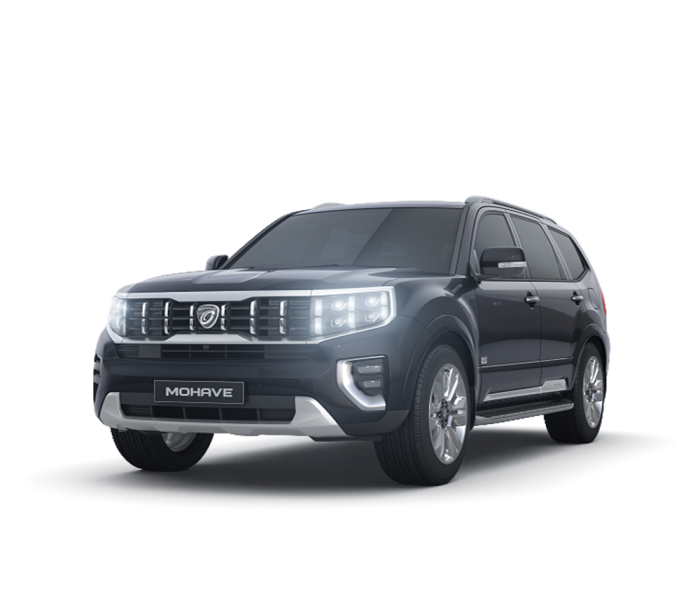
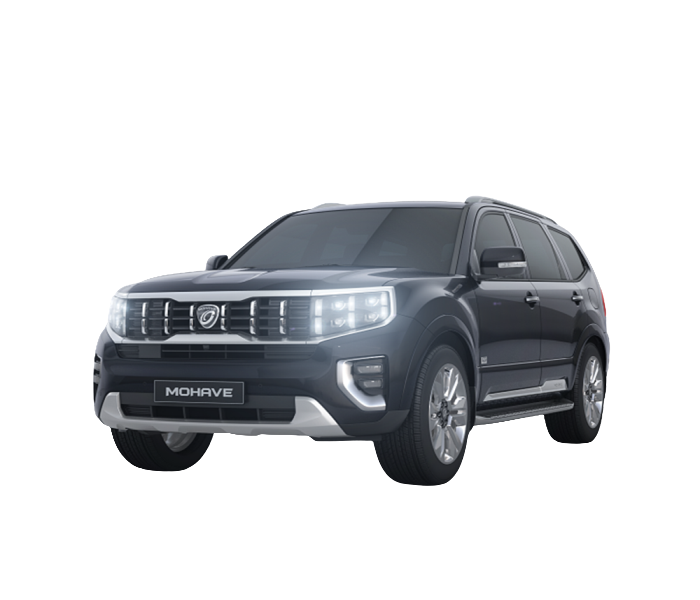
feat : 이미지 업데이트

Changed region(s): [[0.09, 0.69, 0.9, 0.84]]

diff --git a/src/components/ui/VehicleGallery.tsx b/src/components/ui/VehicleGallery.tsx
@@ -6,23 +6,29 @@ import { VEHICLE_CATEGORIES, getVehiclesByCategory } from '@/lib/vehicles';
 
 export default function VehicleGallery() {
   const [selectedCategory, setSelectedCategory] = useState<string>('전체');
+  const [showCount, setShowCount] = useState<number>(15);
 
   const filteredVehicles = getVehiclesByCategory(selectedCategory);
+  const displayedVehicles = filteredVehicles.slice(0, showCount);
+  const hasMore = filteredVehicles.length > showCount;
 
   return (
-    <section className="py-8 bg-gray-50">
-      <div className="max-w-md mx-auto px-4">
-        <h2 className="text-xl font-bold text-center mb-6 text-gray-800">보유 차량</h2>
+    <section className="py-8">
+      <div className="max-w-7xl mx-auto px-4">
+        <h2 className="text-3xl font-bold text-center mb-8 text-gray-900">보유 차량</h2>
 
         {/* 필터 버튼들 */}
-        <div className="flex flex-wrap gap-2 mb-6 justify-center">
+        <div className="flex flex-wrap gap-3 mb-8 justify-center">
           {VEHICLE_CATEGORIES.map((category) => (
             <button
               key={category}
-              onClick={() => setSelectedCategory(category)}
-              className={`px-4 py-2 rounded-full text-sm font-medium transition-colors ${selectedCategory === category
-                ? 'bg-blue-600 text-white'
-                : 'bg-white text-gray-600 hover:bg-gray-100'
+              onClick={() => {
+                setSelectedCategory(category);
+                setShowCount(15); // 카테고리 변경 시 초기화
+              }}
+              className={`px-6 py-3 rounded-full text-sm font-semibold transition-all duration-200 ${selectedCategory === category
+                ? 'bg-blue-600 text-white shadow-lg transform scale-105'
+                : 'bg-white text-gray-700 hover:bg-blue-50 hover:text-blue-600 shadow-md'
                 }`}
             >
               {category}
@@ -30,51 +36,86 @@ export default function VehicleGallery() {
           ))}
         </div>
 
-        {/* 차량 갤러리 */}
-        <div className="grid grid-cols-1 gap-4">
-          {filteredVehicles.map((vehicle) => (
-            <div key={vehicle.id} className="bg-white rounded-lg p-4 shadow-sm">
-              <div className="flex items-center space-x-4">
-                {/* 차량 이미지 */}
-                <div className="flex-shrink-0 w-24 h-16 relative">
-                  <Image
-                    src={vehicle.image}
-                    alt={vehicle.name}
-                    fill
-                    className="object-contain rounded-lg"
-                    sizes="(max-width: 768px) 96px, 96px"
-                  />
+        {/* 차량 갤러리 - 그리드 형식 */}
+        <div className="grid grid-cols-2 md:grid-cols-3 lg:grid-cols-4 xl:grid-cols-5 gap-4 lg:gap-6">
+          {displayedVehicles.map((vehicle) => (
+            <div
+              key={vehicle.id}
+              className="bg-white rounded-2xl overflow-hidden shadow-lg hover:shadow-2xl transition-all duration-300 hover:transform hover:scale-105 border border-gray-100"
+            >
+              {/* 차량 이미지 */}
+              <div className="aspect-[4/3] bg-gradient-to-br from-blue-50 via-blue-100 to-blue-50 relative overflow-hidden">
+                <Image
+                  src={vehicle.image}
+                  alt={vehicle.name}
+                  fill
+                  className="object-contain hover:scale-110 transition-transform duration-300"
+                  style={{
+                    objectPosition: 'center',
+                    filter: 'drop-shadow(0 4px 8px rgba(0,0,0,0.1))',
+                    padding: '8px'
+                  }}
+                  sizes="(max-width: 768px) 50vw, (max-width: 1024px) 33vw, 20vw"
+                />
+              </div>
+
+              {/* 차량 정보 */}
+              <div className="p-4">
+                <div className="mb-2">
+                  <h3 className="font-bold text-gray-900 text-sm lg:text-base truncate">
+                    {vehicle.name}
+                  </h3>
+                  <span className="inline-block text-xs bg-blue-100 text-blue-600 px-2 py-1 rounded-full mt-1">
+                    {vehicle.category}
+                  </span>
                 </div>
 
-                {/* 차량 정보 */}
-                <div className="flex-1">
-                  <div className="flex items-center justify-between mb-2">
-                    <h3 className="font-bold text-gray-800">{vehicle.name}</h3>
-                    <span className="text-xs bg-blue-100 text-blue-600 px-2 py-1 rounded-full">
-                      {vehicle.category}
+                <p className="text-blue-600 font-bold text-sm lg:text-base mb-3">
+                  {vehicle.price}
+                </p>
+
+                {/* 주요 특징 (최대 2개만 표시) */}
+                <div className="flex flex-wrap gap-1">
+                  {vehicle.features.slice(0, 2).map((feature, index) => (
+                    <span
+                      key={index}
+                      className="text-xs bg-gray-100 text-gray-600 px-2 py-1 rounded-full"
+                    >
+                      {feature}
                     </span>
-                  </div>
-                  <p className="text-blue-600 font-bold text-sm mb-2">{vehicle.price}</p>
-                  <div className="flex flex-wrap gap-1">
-                    {vehicle.features.map((feature, index) => (
-                      <span
-                        key={index}
-                        className="text-xs bg-gray-100 text-gray-600 px-2 py-1 rounded"
-                      >
-                        {feature}
-                      </span>
-                    ))}
-                  </div>
+                  ))}
+                  {vehicle.features.length > 2 && (
+                    <span className="text-xs text-gray-400 px-2 py-1">
+                      +{vehicle.features.length - 2}
+                    </span>
+                  )}
                 </div>
               </div>
             </div>
           ))}
         </div>
 
+        {/* 더보기 버튼 */}
+        {hasMore && (
+          <div className="text-center mt-8">
+            <button
+              onClick={() => setShowCount(prev => prev + 15)}
+              className="px-8 py-3 bg-gray-100 text-gray-700 rounded-full hover:bg-gray-200 transition-colors"
+            >
+              더보기 ({displayedVehicles.length} / {filteredVehicles.length})
+            </button>
+          </div>
+        )}
+
         {/* 필터 결과가 없을 때 */}
         {filteredVehicles.length === 0 && (
-          <div className="text-center py-8">
-            <p className="text-gray-500">해당 차종의 차량이 없습니다.</p>
+          <div className="text-center py-16">
+            <div className="text-gray-400 mb-4">
+              <svg className="w-16 h-16 mx-auto" fill="none" stroke="currentColor" viewBox="0 0 24 24">
+                <path strokeLinecap="round" strokeLinejoin="round" strokeWidth={1} d="M9 12h6m-6 4h6m2 5H7a2 2 0 01-2-2V5a2 2 0 012-2h5.586a1 1 0 01.707.293l5.414 5.414a1 1 0 01.293.707V19a2 2 0 01-2 2z" />
+              </svg>
+            </div>
+            <p className="text-gray-500 text-lg">해당 차종의 차량이 없습니다.</p>
           </div>
         )}
       </div>

diff --git a/src/lib/vehicles.ts b/src/lib/vehicles.ts
@@ -82,7 +82,7 @@ export const VEHICLES: Vehicle[] = [
     name: '벤츠 S350',
     category: '대형',
     price: '일 50만원',
-    image: '/images/cars/benz_s350_large.jpg',
+    image: '/images/cars/benz_s350_large.png',
     features: ['최고급', '럭셔리', 'VIP', '최첨단 기술']
   },
   {
@@ -164,7 +164,7 @@ export const VEHICLES: Vehicle[] = [
     name: '팰리세이드 2026',
     category: 'SUV',
     price: '일 17만원',
-    image: '/images/cars/palisade_2026_suv.jpg',
+    image: '/images/cars/palisade_2026_suv.png',
     features: ['8인승', '최신형', '프리미엄', '첨단 기술']
   },
   {
@@ -224,7 +224,7 @@ export const VEHICLES: Vehicle[] = [
     name: 'K5 DL3 2026',
     category: '중형',
     price: '일 11만원',
-    image: '/images/cars/k5_dl3_2026_fullsize.jpg',
+    image: '/images/cars/k5_dl3_2026_fullsize.png',
     features: ['최신형', '세련된 디자인', '첨단 기술', '연비']
   },
   {
@@ -240,7 +240,7 @@ export const VEHICLES: Vehicle[] = [
     name: '소나타 The Edge 2026',
     category: '중형',
     price: '일 11만원',
-    image: '/images/cars/sonata_edge_2026_fullsize.jpg',
+    image: '/images/cars/sonata_edge_2026_fullsize.png',
     features: ['최신형', '스포티', '첨단 기술', '성능']
   },
   {
